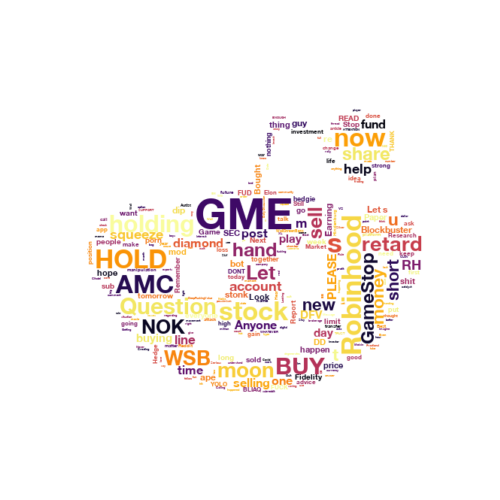
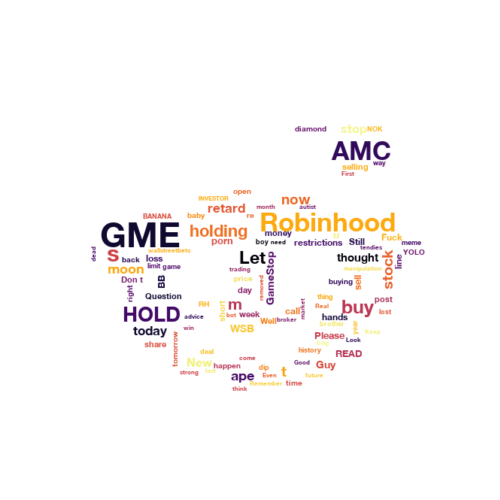
changed the REDDIT API settings from script to webapp to allow everyone to use the script

Changed region(s): [[0.15, 0.21, 0.87, 0.81]]

diff --git a/reddit_scraper.py b/reddit_scraper.py
@@ -36,19 +36,18 @@ class SReddit():
         '''
         scraping of subredit definited in the object 
         '''
-        ### INSERT HERE THE PASSWORD AND USERNAME OF YOUR ACCOUNT REDDIT ###
-        ### IF YOU HAVE 2FA ACTIVE USE THE FOLLOWING SINTAX FOR PASSWORD: "PASSWORD:2FACODE" ###
-        usr = ""
-        psw = ""
+        ### FILL IN WITH THE USERNAME YOUR REDDIT ACCOUNT  ###
+
+        usr = 'YOU REDDIT USERNAME'
+
         # check if the password and username are empty
         if (not usr) and (not psw):
             return False
 
-        reddit = praw.Reddit(client_id='z2edaKf81OaY2w',
-                             client_secret='ZgEG_HottISxIa27_UlXipTDY8j-vA',
-                             user_agent='WSBscraper',
-                             username=usr,
-                             password=psw)
+        reddit = praw.Reddit(client_id='hvUkZg4M5VRv_g',
+                             client_secret='GsV8Dnr1M8nwV0-3YTvIedlSE0yAaQ',
+                             user_agent='RScraper',
+                             username=usr)
 
         subreddit = reddit.subreddit(self.subreddit)
         new_sub = subreddit.new(limit=self.limit)
@@ -191,8 +190,8 @@ if __name__ == "__main__":
     limit = 1500
     Sreddit = SReddit(sub_reddit, limit, key_words)
     if (not Sreddit.scraper(tocsv=False)):
-        print("Insert password and username about reddit account")
+        print("PLEASE fill in with your reddit username")
         os._exit(-1)
     frequence = Sreddit.frequency(tocsv=False)
-    top_words = Sreddit.top__used_words(tocsv=False, plot_=False, WordCloud_=True, CloudDimension=1500)
+    top_words = Sreddit.top__used_words(tocsv=False, plot_=False, WordCloud_=True, CloudDimension=100)
     hot_ratio = Sreddit.hottest_ones(tocsv=False)

diff --git a/README.md b/README.md
@@ -5,7 +5,7 @@ Work in progress...
 
 Soon a website to visualize the data and possibly a good NLP algorithm!
 
-To use it, fill in with your Reddit username and password in the scraper function following the instruction in the code.
+TO USE THE SCRIPT PLEASE FILL IN ONLY WITH YOUR USERNAME
 
 Contact: </br> 
     joe-pier  :   pier98.dipa@gmail.com</br>
